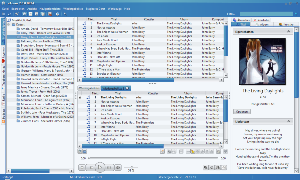
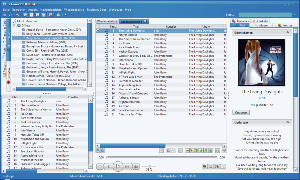
finished window type preview

diff --git a/trunk/aTunes/src/main/java/net/sourceforge/atunes/gui/views/controls/ByImageChoosingPanel.java b/trunk/aTunes/src/main/java/net/sourceforge/atunes/gui/views/controls/ByImageChoosingPanel.java
@@ -20,16 +20,42 @@
 package net.sourceforge.atunes.gui.views.controls;
 
 import java.awt.FlowLayout;
+import java.awt.GridBagConstraints;
+import java.awt.GridBagLayout;
+import java.awt.event.MouseAdapter;
+import java.awt.event.MouseEvent;
 import java.util.HashSet;
-import java.util.Map;
+import java.util.List;
 import java.util.Set;
-import java.util.Map.Entry;
 
 import javax.swing.ButtonGroup;
 import javax.swing.ImageIcon;
+import javax.swing.JLabel;
+import javax.swing.JPanel;
 import javax.swing.JRadioButton;
 
 public final class ByImageChoosingPanel<T> extends ScrollableFlowPanel {
+
+    public static class ImageEntry<U> {
+
+        private U object;
+        private ImageIcon image;
+
+        public ImageEntry(U object, ImageIcon image) {
+            super();
+            this.object = object;
+            this.image = image;
+        }
+
+        public U getObject() {
+            return object;
+        }
+
+        public ImageIcon getImage() {
+            return image;
+        }
+
+    }
 
     private class CustomJRadioButton extends JRadioButton {
 
@@ -51,25 +77,51 @@ public final class ByImageChoosingPanel<T> extends ScrollableFlowPanel {
     private Set<CustomJRadioButton> buttons = new HashSet<CustomJRadioButton>();
     private ButtonGroup buttonGroup = new ButtonGroup();
 
-    public ByImageChoosingPanel(Map<? extends T, ? extends ImageIcon> data) {
+    public ByImageChoosingPanel(List<? extends ImageEntry<T>> entries) {
         setLayout(new FlowLayout(FlowLayout.LEADING, 20, 20));
-        init(data);
+        init(entries);
     }
 
-    private void init(Map<? extends T, ? extends ImageIcon> data) {
-        for (Entry<? extends T, ? extends ImageIcon> entry : data.entrySet()) {
-            CustomJRadioButton button = new CustomJRadioButton(entry.getKey());
-            button.setIcon(entry.getValue());
+    private void init(List<? extends ImageEntry<T>> entries) {
+        for (ImageEntry<T> entry : entries) {
+            JLabel imageLabel = new JLabel();
+            final CustomJRadioButton button = new CustomJRadioButton(entry.getObject());
+            button.setFocusPainted(false);
+            imageLabel.setIcon(entry.getImage());
             buttons.add(button);
-            add(button);
             buttonGroup.add(button);
+
+            imageLabel.addMouseListener(new MouseAdapter() {
+                @Override
+                public void mouseClicked(MouseEvent e) {
+                    button.setSelected(!button.isSelected());
+                }
+            });
+
+            JPanel panel = createPanel(imageLabel, button);
+            add(panel);
         }
+    }
+
+    private JPanel createPanel(JLabel imageLabel, CustomJRadioButton button) {
+        JPanel p = new JPanel(new GridBagLayout());
+        GridBagConstraints c = new GridBagConstraints();
+        c.gridx = 0;
+        c.gridy = 0;
+        c.weighty = 1;
+        c.fill = GridBagConstraints.BOTH;
+        p.add(imageLabel, c);
+        c.gridx = 0;
+        c.gridy = 1;
+        c.weighty = 0;
+        c.fill = GridBagConstraints.NONE;
+        p.add(button, c);
+        return p;
     }
 
     public void setSelectedItem(T object) {
         for (CustomJRadioButton button : buttons) {
             if (button.getObject().equals(object)) {
-                //buttonGroup.setSelected(button.getModel(), true);
                 button.setSelected(true);
             }
         }

diff --git a/trunk/aTunes/src/main/java/net/sourceforge/atunes/gui/views/dialogs/editPreferences/GeneralPanel.java b/trunk/aTunes/src/main/java/net/sourceforge/atunes/gui/views/dialogs/editPreferences/GeneralPanel.java
@@ -25,12 +25,11 @@ import java.awt.Insets;
 import java.awt.event.ActionEvent;
 import java.awt.event.ActionListener;
 import java.text.Collator;
+import java.util.ArrayList;
 import java.util.Arrays;
 import java.util.Comparator;
-import java.util.HashMap;
 import java.util.List;
 import java.util.Locale;
-import java.util.Map;
 
 import javax.swing.ImageIcon;
 import javax.swing.JButton;
@@ -48,6 +47,7 @@ import net.sourceforge.atunes.gui.frame.Frame;
 import net.sourceforge.atunes.gui.frame.Frames;
 import net.sourceforge.atunes.gui.images.Images;
 import net.sourceforge.atunes.gui.views.controls.ByImageChoosingPanel;
+import net.sourceforge.atunes.gui.views.controls.ByImageChoosingPanel.ImageEntry;
 import net.sourceforge.atunes.gui.views.dialogs.FontChooserDialog;
 import net.sourceforge.atunes.gui.views.dialogs.FontChooserDialog.FontSettings;
 import net.sourceforge.atunes.kernel.modules.gui.GuiHandler;
@@ -160,9 +160,9 @@ public final class GeneralPanel extends PreferencesPanel {
             }
 
         });
-        Map<Class<? extends Frame>, ImageIcon> data = new HashMap<Class<? extends Frame>, ImageIcon>();
+        List<ImageEntry<Class<? extends Frame>>> data = new ArrayList<ImageEntry<Class<? extends Frame>>>();
         for (Class<? extends Frame> clazz : Frames.getClasses()) {
-            data.put(clazz, Frames.getImage(clazz));
+            data.add(new ImageEntry<Class<? extends Frame>>(clazz, Frames.getImage(clazz)));
         }
         windowTypeChoosingPanel = new ByImageChoosingPanel<Class<? extends Frame>>(data);
 

diff --git a/trunk/aTunes/src/main/java/net/sourceforge/atunes/gui/frame/Frames.java b/trunk/aTunes/src/main/java/net/sourceforge/atunes/gui/frame/Frames.java
@@ -34,30 +34,35 @@ public final class Frames {
 
     private static final List<Class<? extends Frame>> classes;
 
-    private static Map<Class<? extends Frame>, String> previewImages = new HashMap<Class<? extends Frame>, String>();
+    private static Map<Class<? extends Frame>, String> images = new HashMap<Class<? extends Frame>, String>();
 
     static {
         classes = new ArrayList<Class<? extends Frame>>();
 
         add(DefaultSingleFrame.class, "1.png");
-        add(MultipleFrame.class, "2.png");
-        add(EnhancedSingleFrame.class, "3.png");
+        add(EnhancedSingleFrame.class, "2.png");
+        add(MultipleFrame.class, "3.png");
     }
 
     private static void add(Class<? extends Frame> clazz, String image) {
         classes.add(clazz);
-        previewImages.put(clazz, image);
+        images.put(clazz, image);
     }
 
     public static List<Class<? extends Frame>> getClasses() {
-        return classes;
+        return new ArrayList<Class<? extends Frame>>(classes);
     }
 
     public static ImageIcon getImage(Class<? extends Frame> clazz) {
         if (clazz == null) {
             return null;
         }
-        URL imgURL = Frames.class.getResource("/images/windows/" + previewImages.get(clazz));
+        String string = images.get(clazz);
+        return getImage(string);
+    }
+
+    private static ImageIcon getImage(String string) {
+        URL imgURL = Frames.class.getResource("/images/windows/" + string);
         return imgURL != null ? new ImageIcon(imgURL) : null;
     }
 
